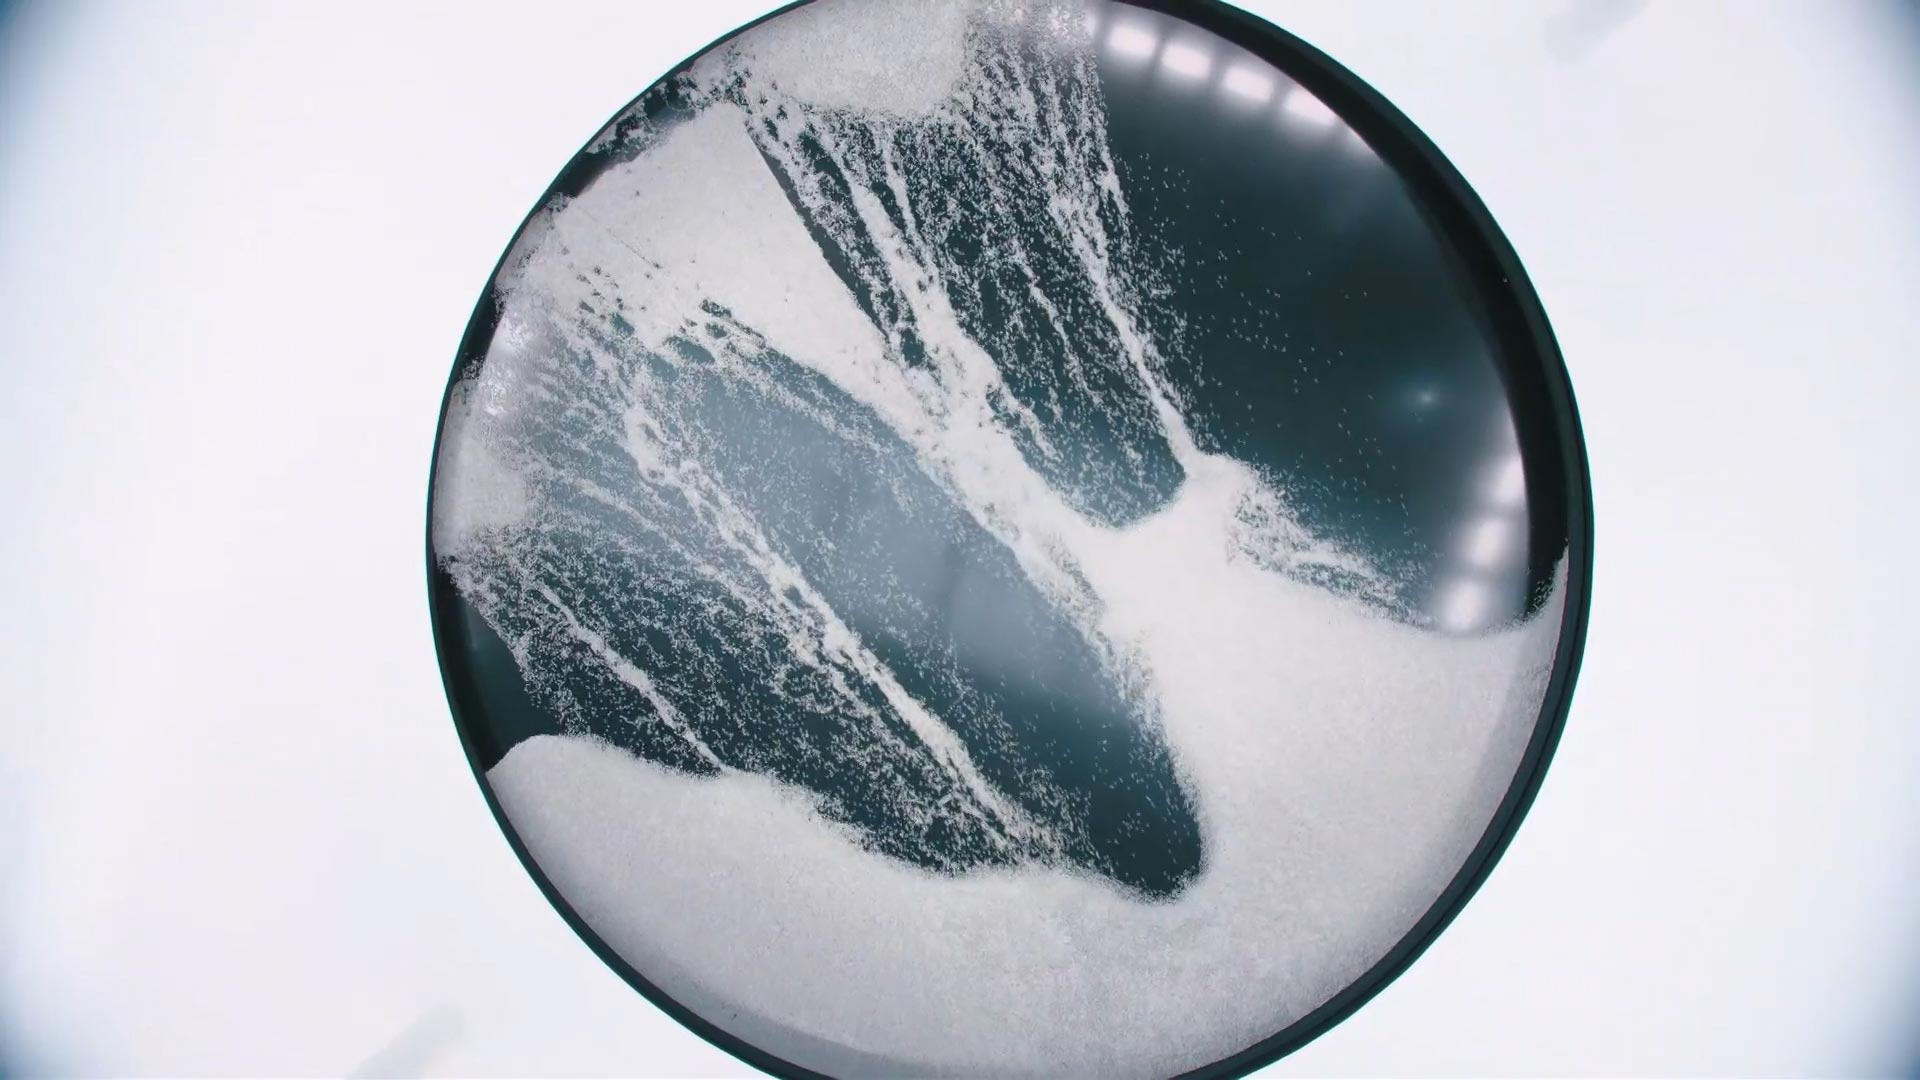
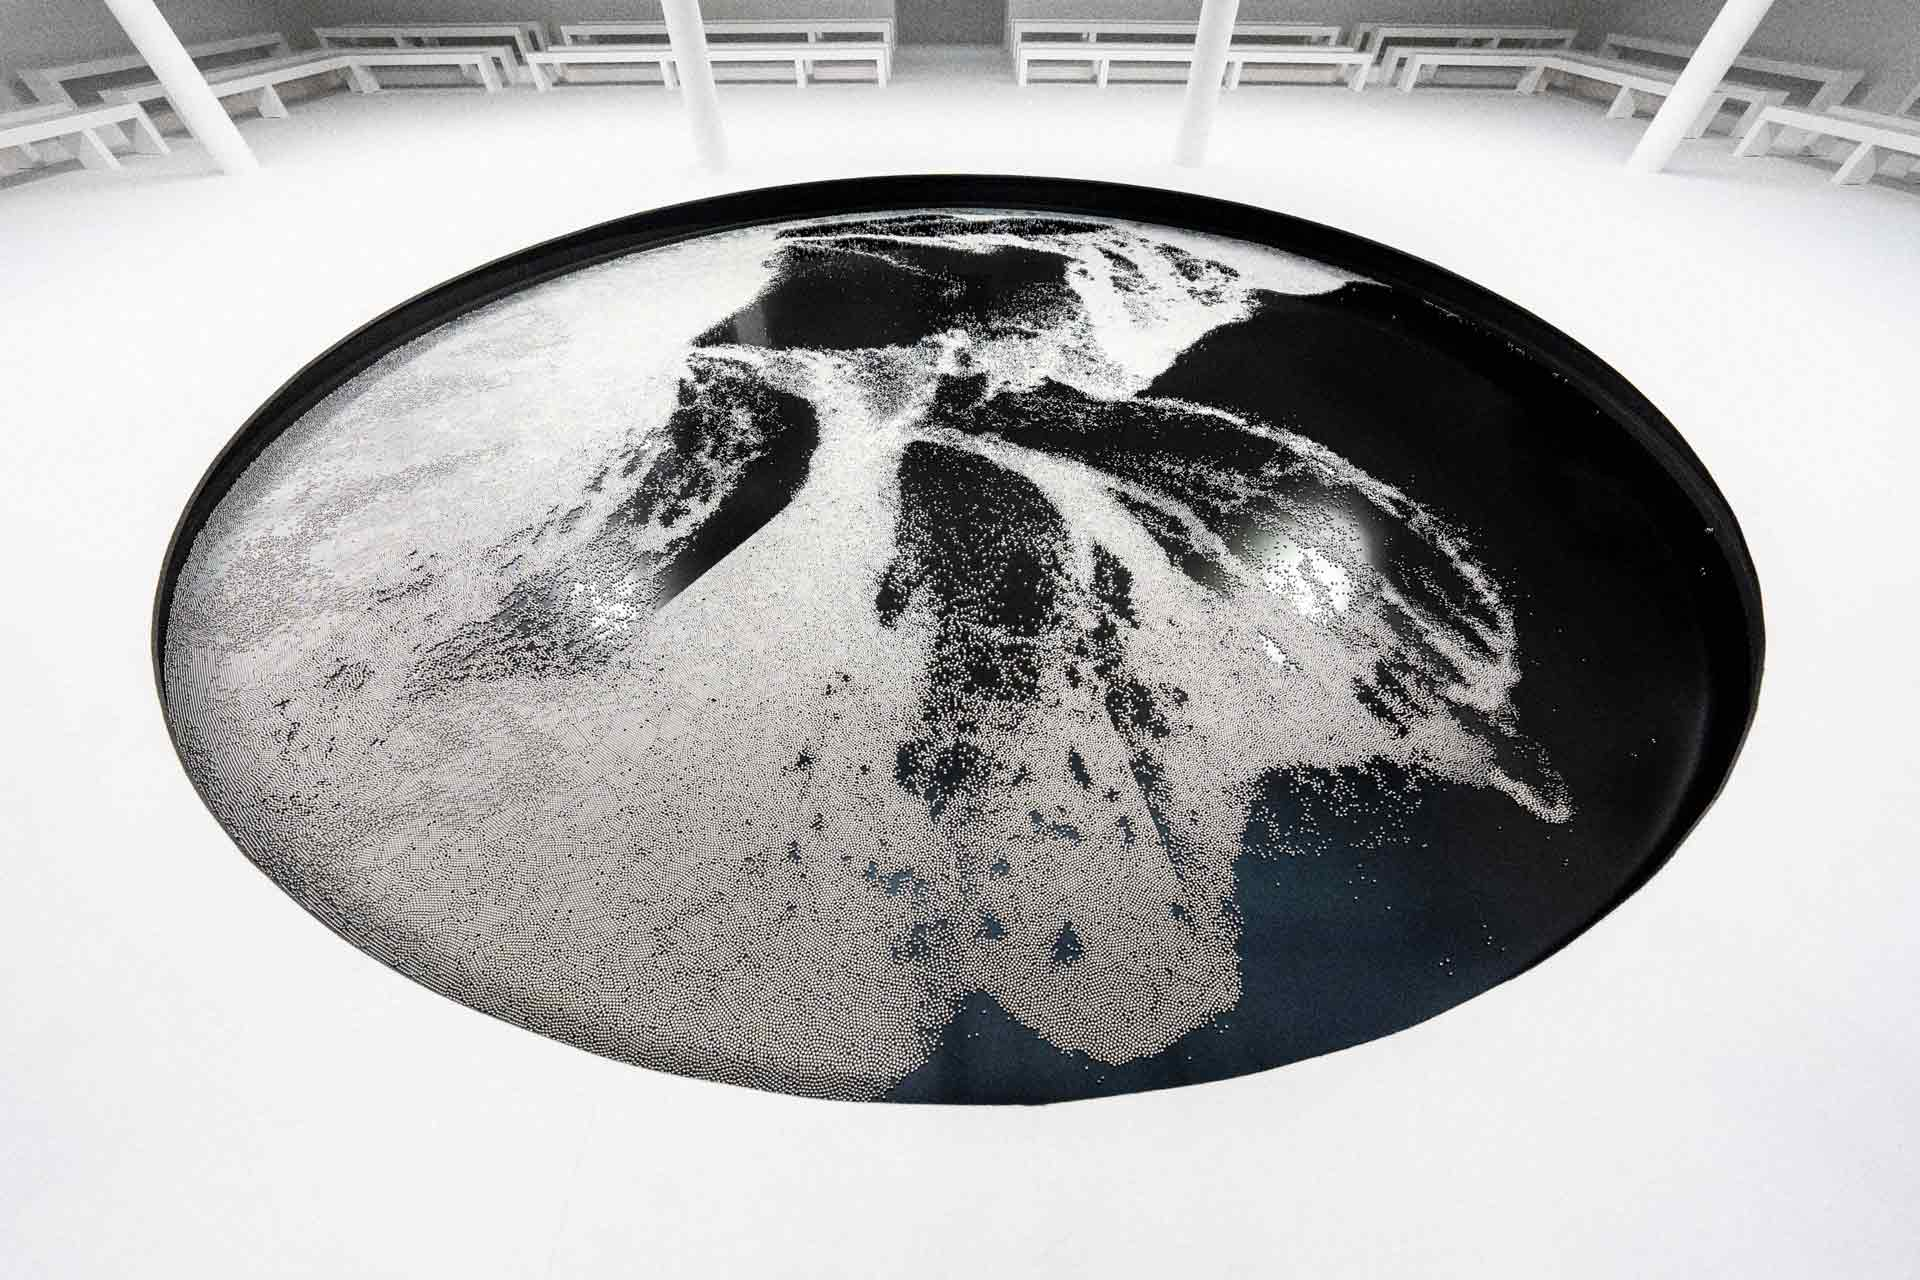
2024_courreges updated.

diff --git a/projects/2024/2024_courreges.html b/projects/2024/2024_courreges.html
@@ -37,13 +37,19 @@
     <div class="row">
       <div class="column left">
         <p>
-          <i>Collaboration with <a href="https://www.courreges.com/" target="_blank">Courrèges'</a> artistic director Nicolas Di Felice and scenography director Rémy Brière</i>          
+          <i>Concept of the stage in collaboration with <a href="https://www.courreges.com/" target="_blank">Courrèges'</a> artistic director Nicolas Di Felice and scenography director Rémy Brière</i>          
         </p>
       </div>
       <div class="column right">
         <div class="responsive-video">
           <video controls src="2024_GN_courreges_show.mp4"></video>
         </div>
+        <br>
+        <br>
+        <a href="2024_GN_courreges_1.jpg" target="_blank">
+          <img src="2024_GN_courreges_1.jpg"
+            alt="2024_GN_courreges_1.jpg">
+        </a>
         <br>
         <br>
         <a href="2024_GN_courreges_3.jpg" target="_blank">
@@ -64,10 +70,9 @@
         </a>
         <br>
         <br>
-        <a href="2024_GN_courreges_6.jpg" target="_blank">
-          <img src="2024_GN_courreges_6.jpg"
-            alt="2024_GN_courreges_6.jpg">
-        </a>
+        <p class="caption">Photos: Stéphane Aït Ouarab</p>
+        <!-- <br>
+        <a href="https://www.sai-production.com/" target="_blank">sai-production.com</a> -->
       </div>
     </div>
   </main>

diff --git a/projects/projects.html b/projects/projects.html
@@ -32,7 +32,7 @@
                     <div class="gallery-row">
                         <div class="gallery-row left">
                             <a href="2024/2024_courreges.html"><img class="gallery"
-                                    src="2024/2024_GN_courreges_Cover.jpg"
+                                    src="2024/2024_GN_courreges_1.jpg"
                                     alt="2024_GN_courreges_Cover">
                                 Courrèges Spring Summer 25 show, Paris
                             </a>
